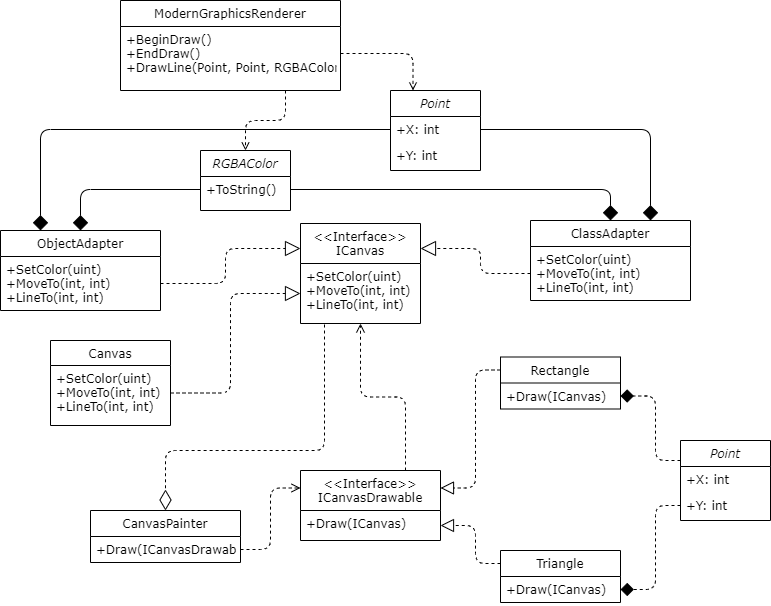
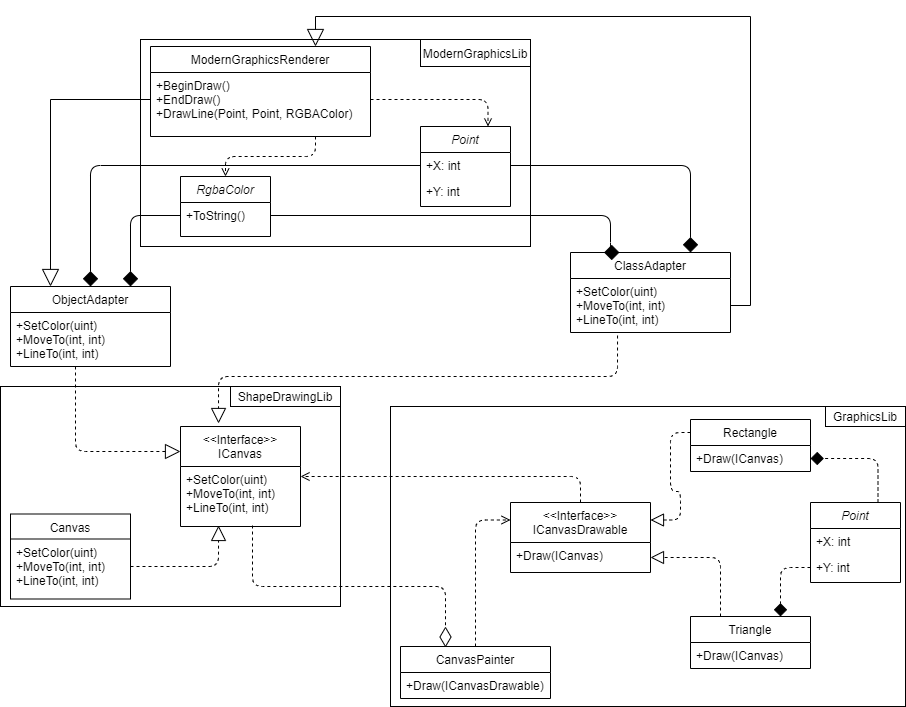
Updated according #2

diff --git a/lab6/Adapter/ObjectAdapter.cs b/lab6/Adapter/ObjectAdapter.cs
@@ -7,8 +7,8 @@ namespace Adapter
 {
     public class ObjectAdapter : ICanvas
     {
-        private readonly RGBAColor _color = new RGBAColor(0, 0, 0, 1);
-        public readonly ModernGraphicsRenderer _renderer;
+        private readonly RgbaColor _color = new RgbaColor(0, 0, 0, 1);
+        private readonly ModernGraphicsRenderer _renderer;
         private Point _point;
 
         public ObjectAdapter(ModernGraphicsRenderer renderer)

diff --git a/lab6/Adapter/App.cs b/lab6/Adapter/App.cs
@@ -8,7 +8,7 @@ namespace Adapter
 {
     public static class App
     {
-        public static void PaintPicture(CanvasPainter canvasPainter)
+        private static void PaintPicture(CanvasPainter canvasPainter)
         {
             var triangle = new Triangle(new Point(10, 15), new Point(100, 200), new Point(150, 250), 0xDEDE1F);
             var rectangle = new Rectangle(new Point(30, 40), 18, 24);

diff --git a/lab6/Adapter/ModernGraphicsLib/ModernGraphicsRenderer.cs b/lab6/Adapter/ModernGraphicsLib/ModernGraphicsRenderer.cs
@@ -22,7 +22,7 @@ namespace Adapter.ModernGraphicsLib
             _drawing = true;
         }
 
-        public void DrawLine(Point start, Point end, RGBAColor color)
+        public void DrawLine(Point start, Point end, RgbaColor color)
         {
             if (!_drawing)
                 throw new Exception("DrawLine is allowed between BeginDraw()/EndDraw() only");

diff --git a/lab6/Adapter/ClassAdapter.cs b/lab6/Adapter/ClassAdapter.cs
@@ -8,7 +8,7 @@ namespace Adapter
 {
     public class ClassAdapter : ModernGraphicsRenderer, ICanvas
     {
-        private readonly RGBAColor _color = new RGBAColor(0, 0, 0, 1);
+        private readonly RgbaColor _color = new RgbaColor(0, 0, 0, 1);
         private Point _point;
 
         public ClassAdapter(TextWriter textWriter) : base(textWriter)

diff --git a/lab6/AdapterTests/ObjectTests.cs b/lab6/AdapterTests/ObjectTests.cs
@@ -31,7 +31,7 @@ namespace AdapterTests
         }
 
         [Fact]
-        private void LineTo_WithoutMoveAndSetColor_LineWithoutColorIsDrawnFromZero()
+        private void LineTo_WithoutMoveAndetColor_LineWithoutColorIsDrawnFromZero()
         {
             const int endX = 10;
             const int endY = 15;

diff --git a/lab6/AdapterTests/ClassTests.cs b/lab6/AdapterTests/ClassTests.cs
@@ -53,7 +53,7 @@ namespace AdapterTests
             var sw = new StringWriter();
             var adapter = new ClassAdapter(sw);
 
-            Assert.Throws<Exception>(() => adapter.LineTo(endX, endX));
+            Assert.Throws<Exception>(() => adapter.LineTo(endX, endY));
         }
 
 

diff --git a/lab6/Adapter/ModernGraphicsLib/RGBAColor.cs b/lab6/Adapter/ModernGraphicsLib/RGBAColor.cs
@@ -1,8 +1,8 @@
 namespace Adapter.ModernGraphicsLib
 {
-    public class RGBAColor
+    public class RgbaColor
     {
-        public RGBAColor(float r, float g, float b, float a)
+        public RgbaColor(float r, float g, float b, float a)
         {
             R = r;
             G = g;

diff --git a/lab6/Adapter/ModernGraphicsLib/Point.cs b/lab6/Adapter/ModernGraphicsLib/Point.cs
@@ -1,6 +1,6 @@
 namespace Adapter.ModernGraphicsLib
 {
-    public struct Point
+    public readonly struct Point
     {
         public readonly int X;
         public readonly int Y;
